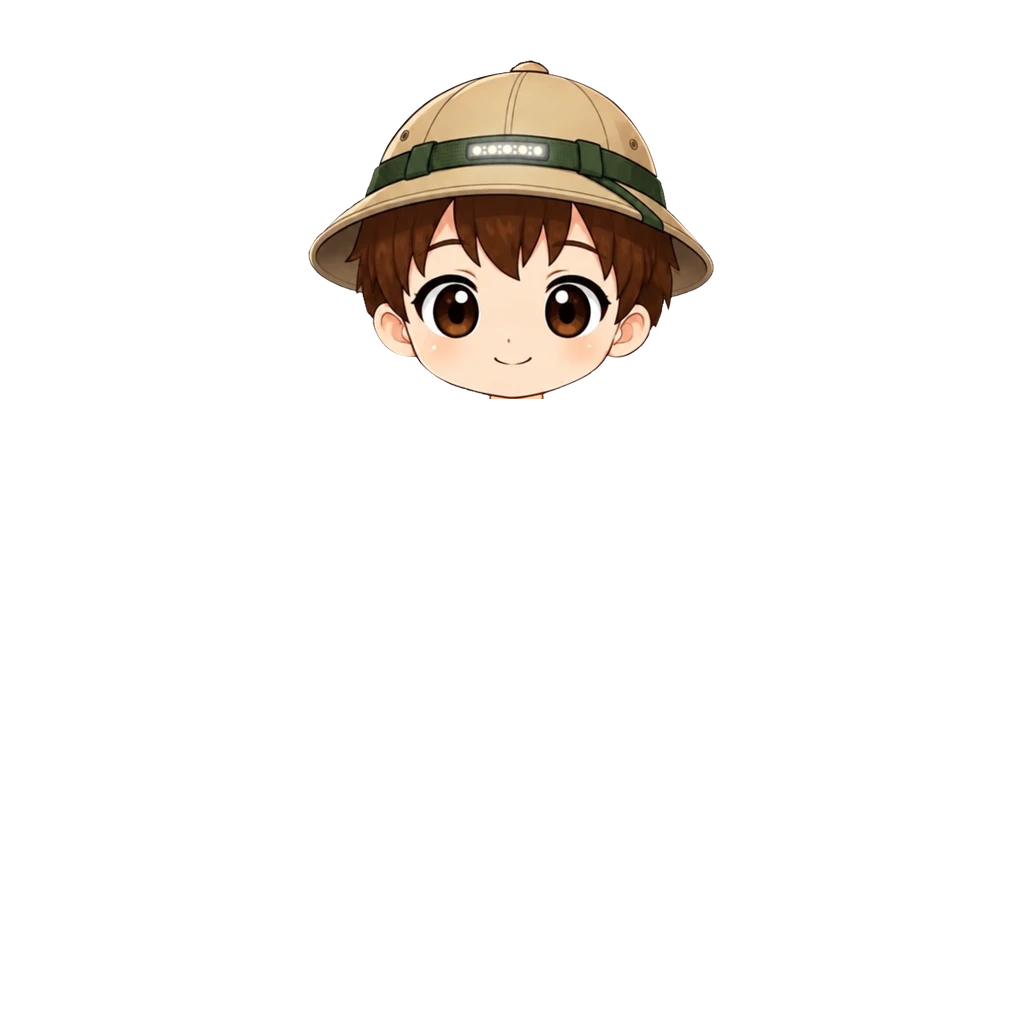
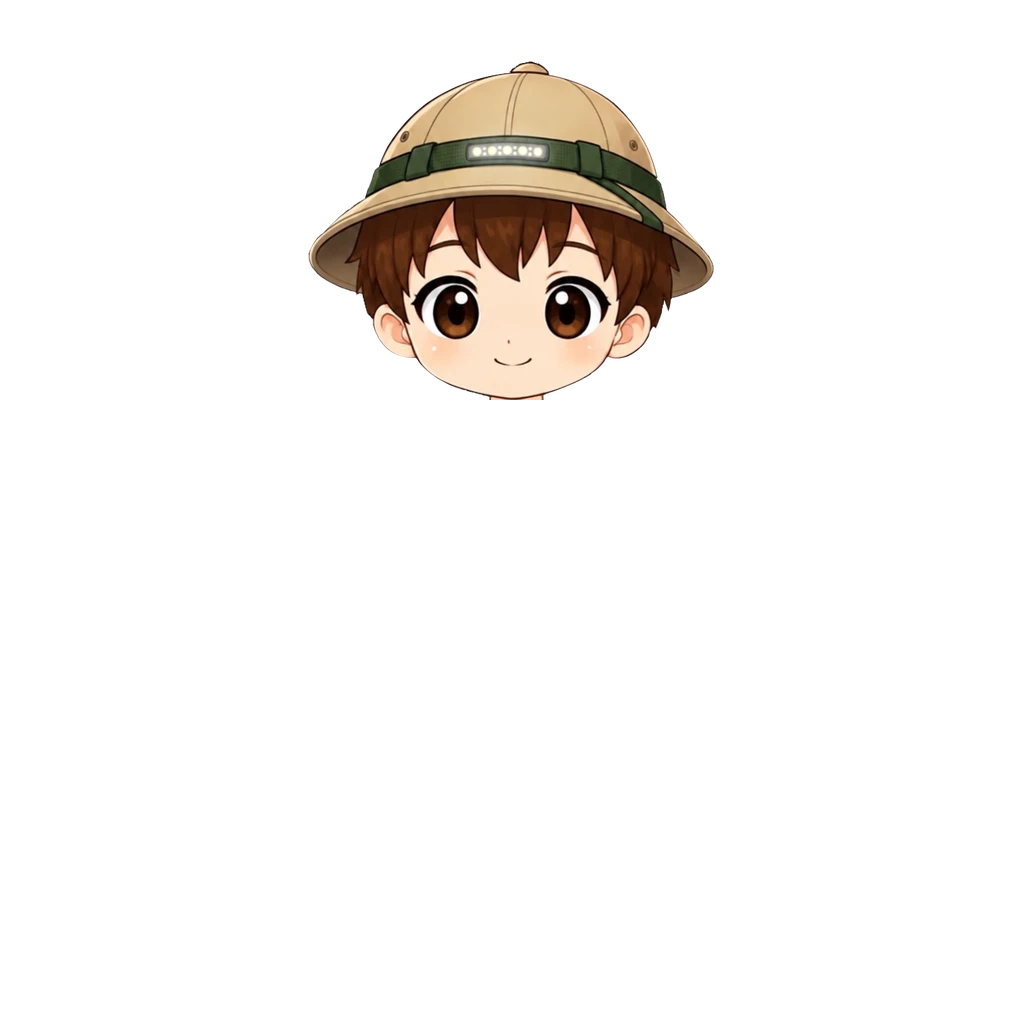
정글 모자(남아) 아래로 1 더 (#899)
원점 (308,60)→(308,61). img ?v=6.

Claude-Session: https://claude.ai/code/session_018maNuYqDfFyRSe9uKpZhPR

diff --git a/src/data/avatarEquipment.js b/src/data/avatarEquipment.js
@@ -265,8 +265,9 @@ export const AVATAR_CATALOG = [
   /* [2026-10-04] 새 원화로 교체·이름 사파리 모자 → 정글 모자 — 베이지 정글 모자(초록 띠·헤드램프) + 얼굴 한 장(사용자 원화 593×496).
      위 탑재값은 옛 판 기록. 얼굴(눈~입) 템플릿 매칭(일치 0.955)으로 배율 0.664, 원점 (317,67), y404 아래 자름. 탑재 상자 (317,67,711,396). img ?v=3.
      [2026-10-05] 사용자 조정 — 3% 크게(배율 0.6839, 턱·얼굴 가운데 고정) 후 왼쪽으로 2, 원점 (309,57). 탑재 상자 (309,57,715,396). img ?v=4.
-     [2026-10-05] 아래로 3·왼쪽으로 1(원점 (308,60)). 탑재 상자 (308,60,714,399). img ?v=5. */
-  { id: "hat_safari_boy", slot: "hat",   label: "정글 모자", emoji: "🧢", price:DECOR_PRICE.rare, rarity: "rare", theme: "adventure", forGender: "boy", hidesHead: true, img: "assets/avatar/hat/safari-brown.webp?v=5", thumb: "assets/avatar/thumb/hat_safari_boy.webp" },
+     [2026-10-05] 아래로 3·왼쪽으로 1(원점 (308,60)). 탑재 상자 (308,60,714,399). img ?v=5.
+     [2026-10-05] 아래로 1 더(원점 (308,61)). 탑재 상자 (308,61,714,400). img ?v=6. */
+  { id: "hat_safari_boy", slot: "hat",   label: "정글 모자", emoji: "🧢", price:DECOR_PRICE.rare, rarity: "rare", theme: "adventure", forGender: "boy", hidesHead: true, img: "assets/avatar/hat/safari-brown.webp?v=6", thumb: "assets/avatar/thumb/hat_safari_boy.webp" },
   /* 번개 캡모자 [2026-10-04] — 남아. 청록 캡(뒤로 쓴 챙·형광 번개) + 얼굴 한 장(사용자 원화 589×500). 번개 스케이터 옷과 짝.
      사파리 모자와 같은 방식 — hidesHead 로 기본 머리 장을 빼고 이 그림이 머리를 대신한다. 얼굴(눈~입) 템플릿 매칭(일치 0.956)으로
      배율 0.644, 원점 (336,76). 기본 머리 장처럼 y404 아래는 잘랐다. 탑재 상자 (336,76,715,398).

diff --git a/art-src/README.md b/art-src/README.md
@@ -341,7 +341,7 @@ getBoundingClientRect로 재서 정한다. 2026-08-05 점검에서 이 기준을
 | shoe-cream-L/R.webp | 크림 부츠 원화 한 짝씩 (현행, 고해상도 원본) | avatar/shoes/cream-boots(-girl).webp |
 | hat-explorer-v3.webp | 탐험 헬멧 원화 남아 v3 (현행, hidesHead) | avatar/hat/explorer-helmet.webp |
 | hat-explorer-helmet-girl.webp | 탐험 헬멧 원화 여아 (현행, imgGirl) | avatar/hat/explorer-helmet-girl.webp |
-| hat-safari-brown.webp | **정글 모자 원화 남아(옛 이름 사파리 모자) — 새 판 (사용자 원화 2026-10-04, 이전 판 교체)** — 593×496 투명 배경, 베이지 정글 모자(초록 띠·헤드램프) + 얼굴 한 장. hidesHead 로 기본 머리를 대신한다. 얼굴 템플릿 매칭(일치 0.955)으로 배율 0.664·원점 (317,67), y404 아래 자름. 탑재 상자 (317,67,711,396) · img ?v=3 **[2026-10-05 조정]** 3% 크게(0.6839)·왼쪽 2, 원점 (309,57) · img ?v=4. 아래로 3·왼쪽 1(원점 (308,60)) · img ?v=5 | avatar/hat/safari-brown.webp |
+| hat-safari-brown.webp | **정글 모자 원화 남아(옛 이름 사파리 모자) — 새 판 (사용자 원화 2026-10-04, 이전 판 교체)** — 593×496 투명 배경, 베이지 정글 모자(초록 띠·헤드램프) + 얼굴 한 장. hidesHead 로 기본 머리를 대신한다. 얼굴 템플릿 매칭(일치 0.955)으로 배율 0.664·원점 (317,67), y404 아래 자름. 탑재 상자 (317,67,711,396) · img ?v=3 **[2026-10-05 조정]** 3% 크게(0.6839)·왼쪽 2, 원점 (309,57) · img ?v=4. 아래로 3·왼쪽 1(원점 (308,60)) · img ?v=5. 아래로 1 더(원점 (308,61)) · img ?v=6 | avatar/hat/safari-brown.webp |
 | hat-aviator-cap.webp | 비행사 모자 원화 남아 (**겨울 시즌 보관** — season:"winter", 상점 미노출) | avatar/hat/aviator-cap.webp |
 | hat-aviator-cap-girl.webp | 비행사 모자 원화 여아 (**겨울 시즌 보관**) | avatar/hat/aviator-cap-girl.webp |
 | hat-blossom.webp | 꽃 헬멧 원화 남아 (현행, hidesHead) | avatar/hat/blossom-helmet.webp |
